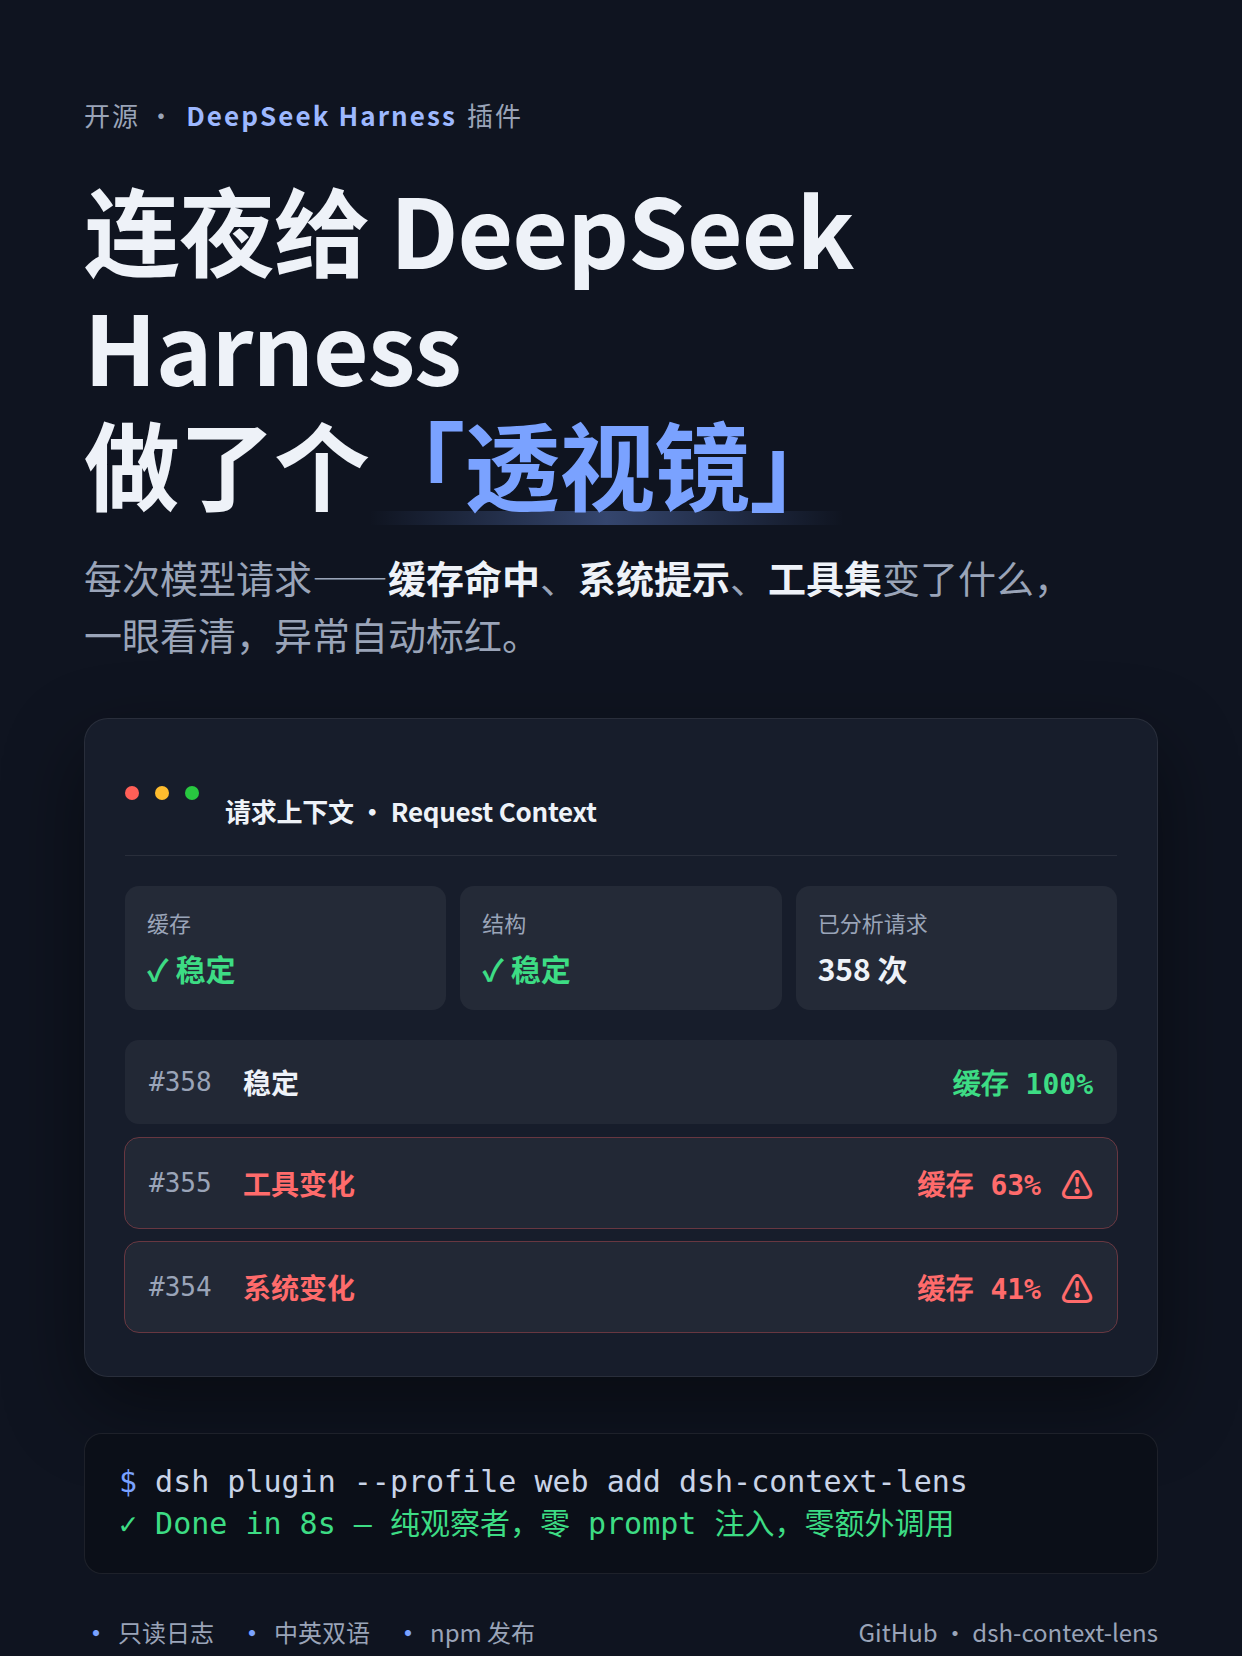
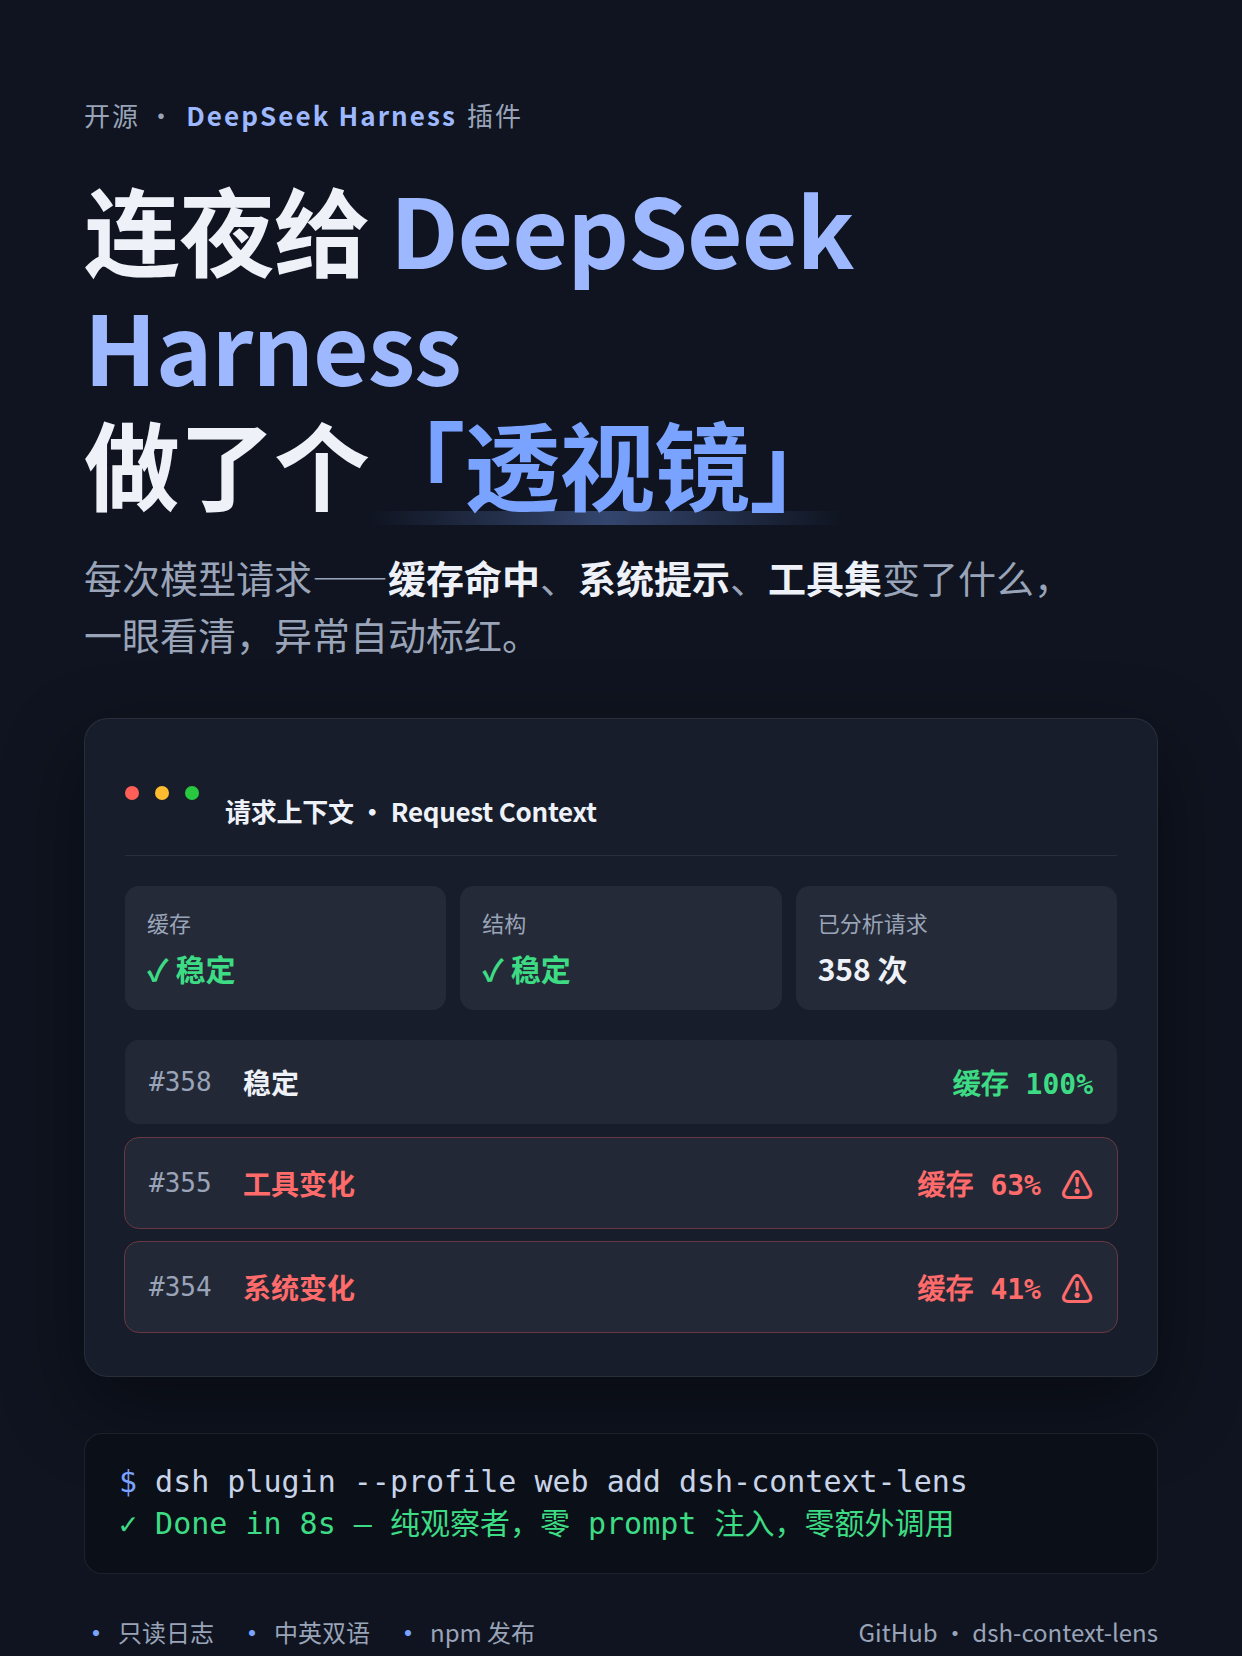
assets: highlight DeepSeek Harness in the cover title (blue, 900)

Changed region(s): [[0.0612, 0.1232, 0.7037, 0.2464]]

diff --git a/assets/promo/cover.html b/assets/promo/cover.html
@@ -33,6 +33,7 @@
     font-size: 96px; line-height: 1.22; font-weight: 900;
     letter-spacing: -0.01em;
   }
+  .title .brand { color: #9db8ff; font-weight: 900; }
   .title .lens { color: var(--accent); position: relative; }
   .title .lens::after {
     content: ''; position: absolute; left: 0; right: 0; bottom: 6px; height: 14px;
@@ -96,7 +97,7 @@
 </head>
 <body>
   <div class="tag">开源 · <b>DeepSeek Harness</b> 插件</div>
-  <div class="title">连夜给 DeepSeek Harness<br>做了个<span class="lens">「透视镜」</span></div>
+  <div class="title">连夜给 <span class="brand">DeepSeek Harness</span><br>做了个<span class="lens">「透视镜」</span></div>
   <div class="sub">每次模型请求——<b>缓存命中</b>、<b>系统提示</b>、<b>工具集</b>变了什么，<br>一眼看清，异常自动标红。</div>
 
   <div class="ui">
